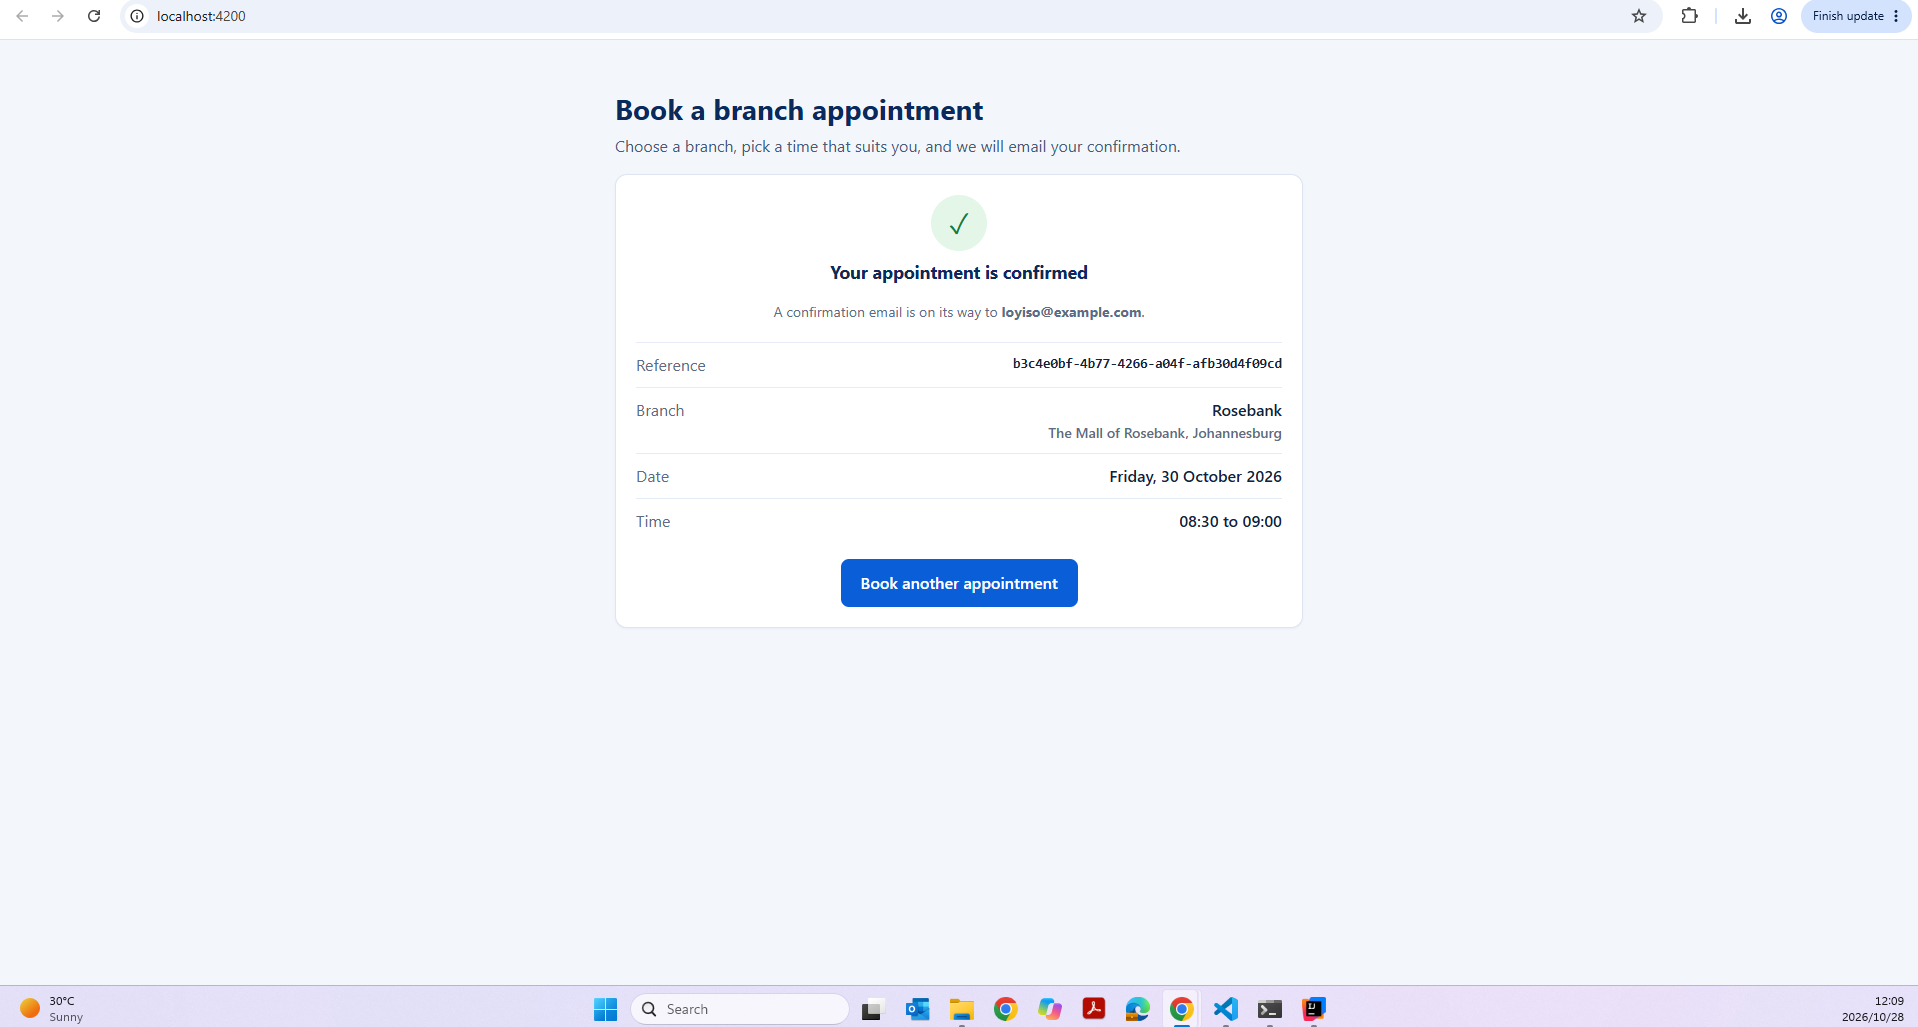
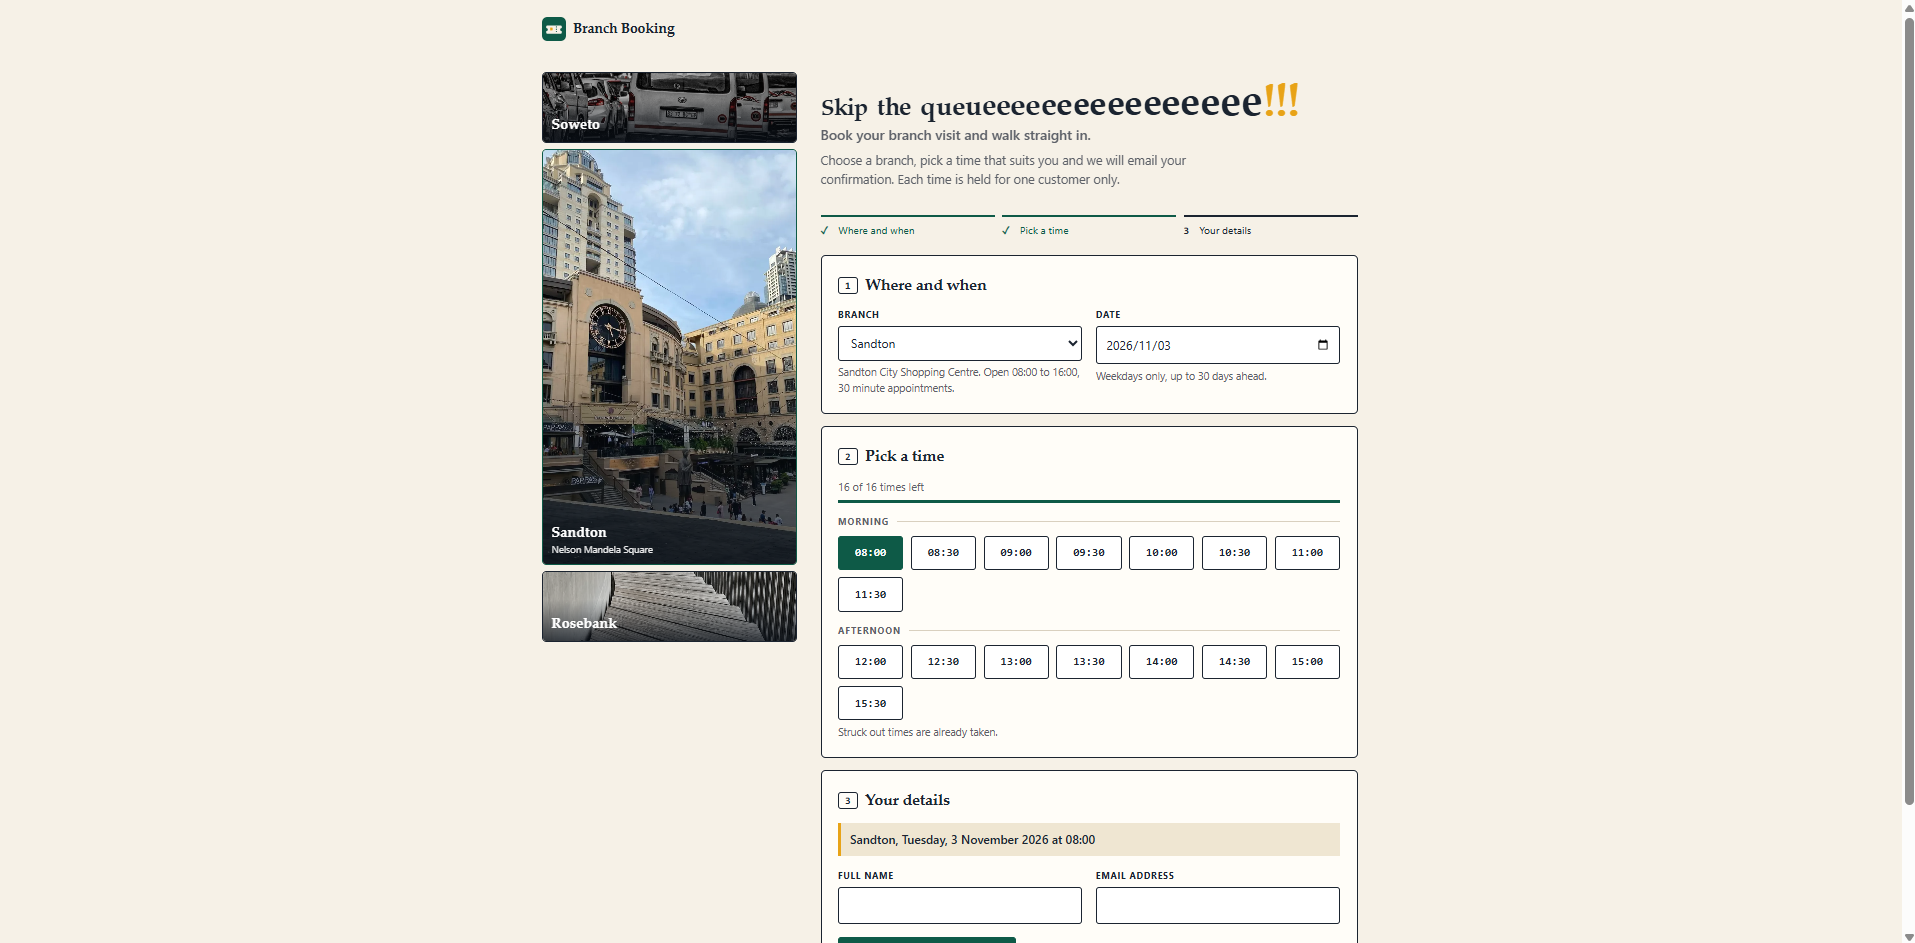
docs: refresh the screenshots and show the confirmation slip

diff --git a/README.md b/README.md
@@ -13,6 +13,8 @@ A full-stack application for scheduling branch appointments. Customers choose a 
 
 ![Booking page](docs/booking-page.png)
 
+![Confirmed booking](docs/confirmation-slip.png)
+
 ![Confirmation email in MailHog](docs/confirmation-email.png)
 
 ## Run it with Docker (recommended)
